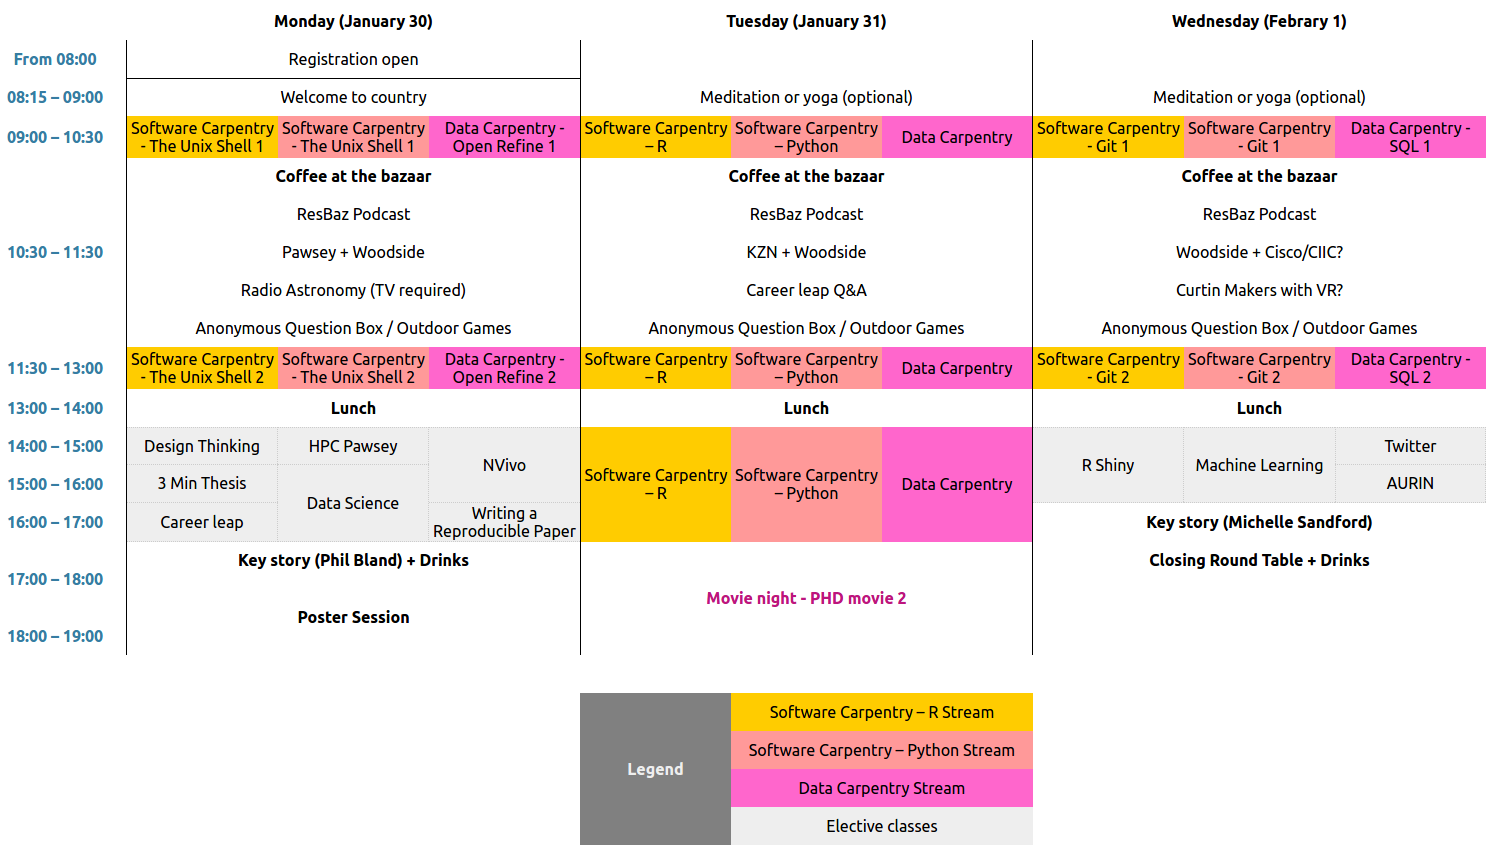
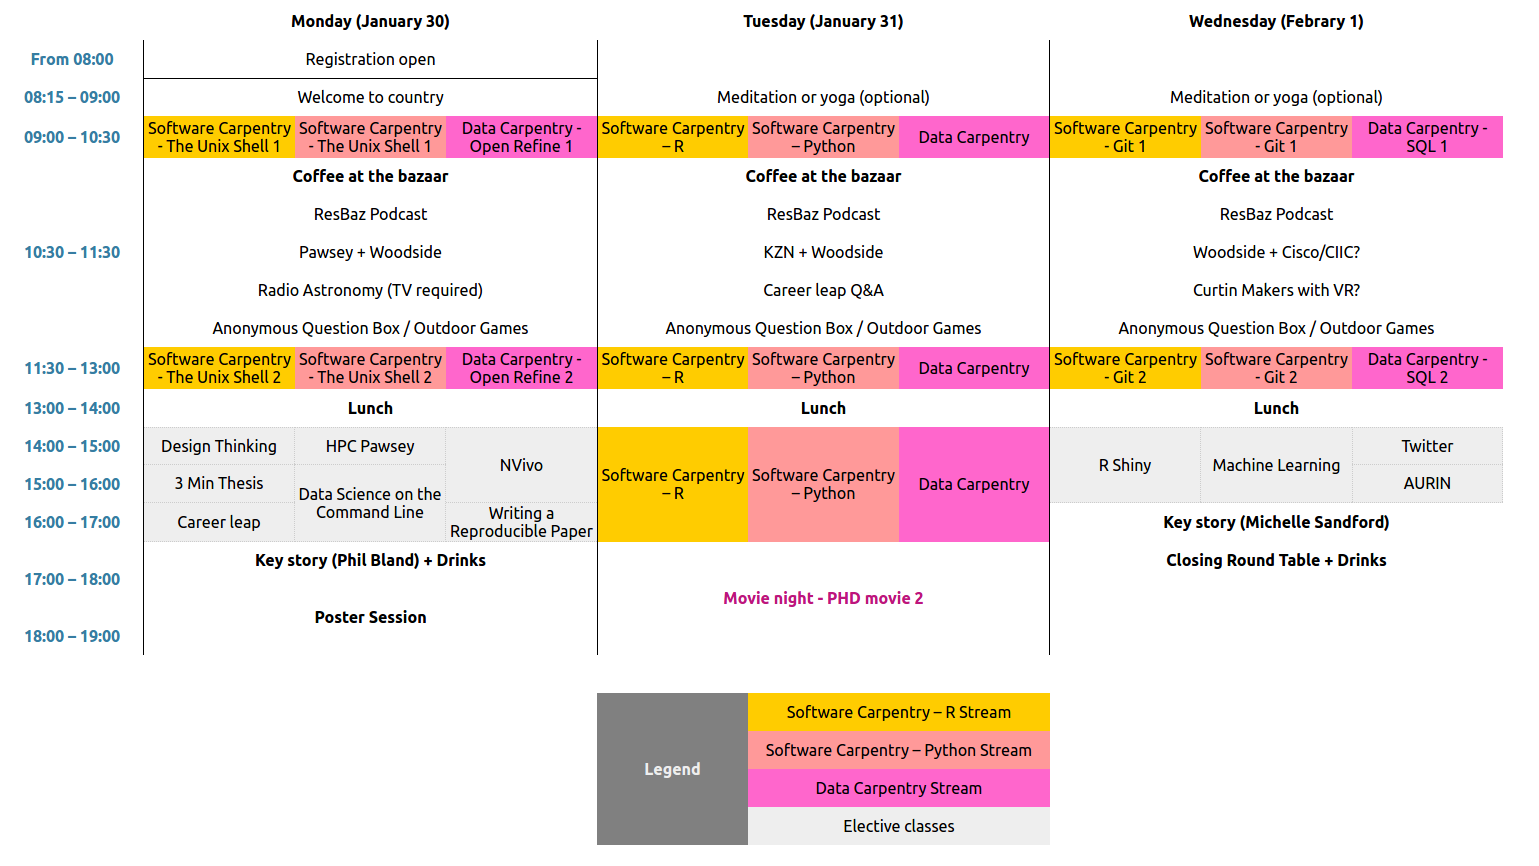
Removed some template filler and fixed elective name

diff --git a/index.html b/index.html
@@ -47,10 +47,10 @@ eventbrite: 29467131985          # optional: alphanumeric key for Eventbrite reg
 </iframe>
 {% endif %}
 
-<h4>This is the workshop template.  Use it to create your own website.
-Delete these lines and please fill in 
-<a href="{{site.amy_site}}/submit">this self-organized workshop form</a>
-and the administrator will contact you if we need any extra information.</h4>
+<!-- <h4>This is the workshop template.  Use it to create your own website. -->
+<!-- Delete these lines and please fill in  -->
+<!-- <a href="{{site.amy_site}}/submit">this self-organized workshop form</a> -->
+<!-- and the administrator will contact you if we need any extra information.</h4> -->
 
 <h2 id="general">General Information</h2>
 
@@ -307,7 +307,6 @@ and the administrator will contact you if we need any extra information.</h4>
       <li><a href="{{site.swc_pages}}/python-novice-inflammation/reference/">Reference...</a></li>
     </ul>
   </div>
-  <!--
   <div class="col-md-6">
     <h3 id="syllabus-r">Programming in R</h3>
     <ul>
@@ -319,7 +318,6 @@ and the administrator will contact you if we need any extra information.</h4>
       <li><a href="{{site.swc_pages}}/r-novice-inflammation/reference/">Reference...</a></li>
     </ul>
   </div>
-  -->
   <!--
   <div class="col-md-6">
     <h3 id="syllabus-matlab">Programming in MATLAB</h3>
